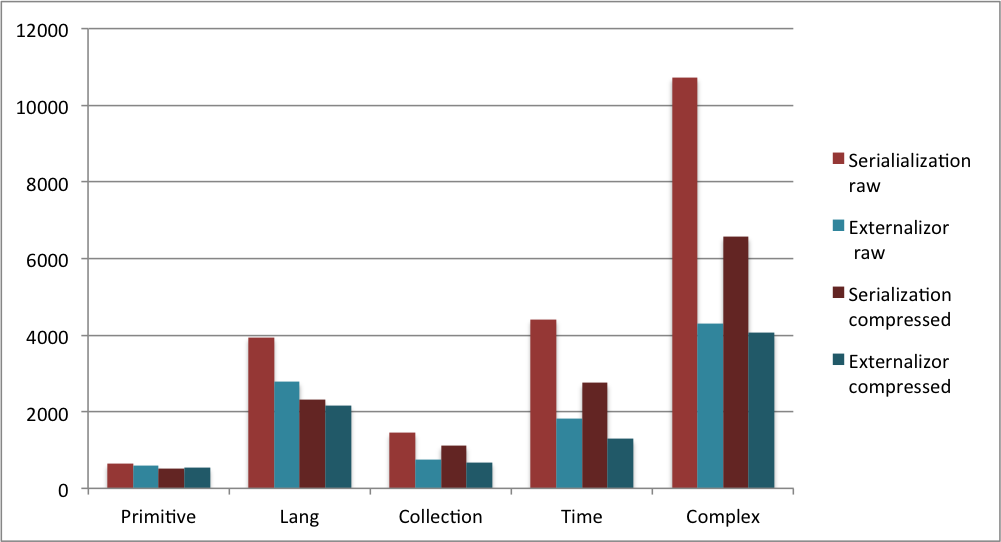
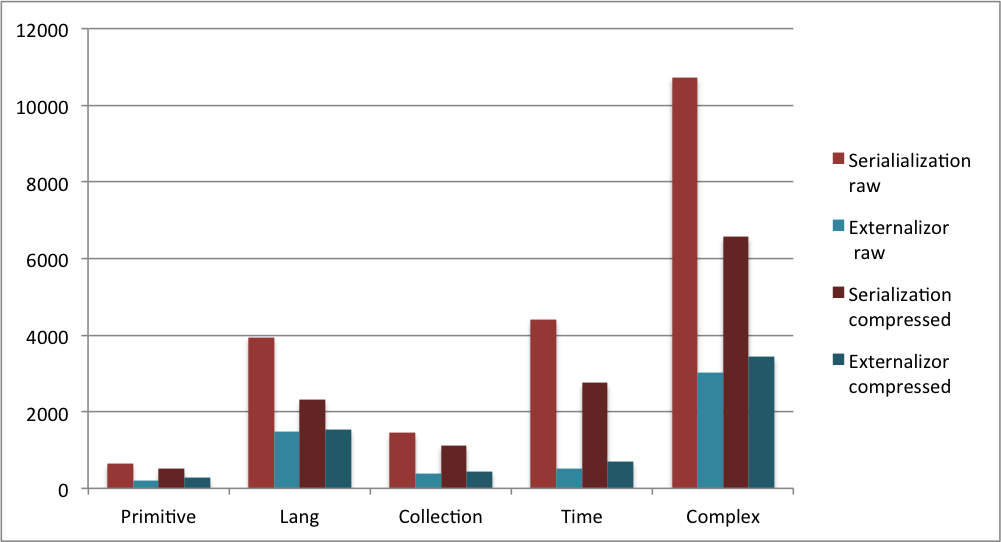
Update benchmark

diff --git a/src/test/java/com/qwazr/externalizor/BenchmarkTest.java b/src/test/java/com/qwazr/externalizor/BenchmarkTest.java
@@ -15,8 +15,10 @@
  */
 package com.qwazr.externalizor;
 
-import org.junit.Assert;
-import org.junit.Test;
+import org.apache.poi.hssf.usermodel.HSSFWorkbook;
+import org.apache.poi.ss.usermodel.*;
+import org.junit.*;
+import org.junit.runners.MethodSorters;
 import org.xerial.snappy.SnappyInputStream;
 import org.xerial.snappy.SnappyOutputStream;
 
@@ -25,9 +27,50 @@ import java.time.Duration;
 import java.util.concurrent.Callable;
 import java.util.function.Function;
 
+@FixMethodOrder(MethodSorters.NAME_ASCENDING)
 public class BenchmarkTest {
 
-	private final int TIME = 3;
+	private final int TIME = 10;
+
+	private static Workbook workbook;
+	private static Sheet sheet;
+	private static int ypos = 0;
+
+	private static void setCell(CellStyle style, Row row, int pos, String value) {
+		Cell cell = row.createCell(pos);
+		cell.setCellStyle(style);
+		cell.setCellValue(value);
+	}
+
+	@BeforeClass
+	public static void beforeClass() {
+
+		workbook = new HSSFWorkbook();
+		sheet = workbook.createSheet("Default");
+		Row row = sheet.createRow(ypos++);
+
+		CellStyle style = workbook.createCellStyle();
+		style.setWrapText(true);
+
+		setCell(style, row, 1, "Bytes\nSize");
+		setCell(style, row, 2, "Serialization\nRaw");
+		setCell(style, row, 3, "Externalizor\nRaw");
+		setCell(style, row, 4, "Serialization\nCompressed");
+		setCell(style, row, 5, "Externalizor\nCompressed");
+
+		setCell(style, row, 7, "Rate\nrw / sec");
+		setCell(style, row, 8, "Serialization\nRaw");
+		setCell(style, row, 9, "Externalizor\nRaw");
+		setCell(style, row, 10, "Serialization\nCompressed");
+		setCell(style, row, 11, "Externalizor\nCompressed");
+	}
+
+	@AfterClass
+	public static void afterCass() throws IOException {
+		try (FileOutputStream output = new FileOutputStream("target/benchmark.xls")) {
+			workbook.write(output);
+		}
+	}
 
 	public class BenchResult {
 
@@ -150,6 +193,7 @@ public class BenchmarkTest {
 		final BenchResult compress1 =
 				benchmark("Default Java - Compress", Duration.ofSeconds(TIME), callNewObject, BenchmarkTest::write,
 						BenchmarkTest::read);
+
 		final BenchResult compress2 =
 				benchmark("Externalizor - Compress", Duration.ofSeconds(TIME), callNewObject, ExternalizerTest::write,
 						bytes -> ExternalizerTest.read(bytes, clazz));
@@ -171,30 +215,44 @@ public class BenchmarkTest {
 		System.out.println(raw2);
 		System.out.println(compare(raw1, raw2));
 		System.out.println();
+
+		Row row = sheet.createRow(ypos++);
+		row.createCell(1).setCellValue(clazz.getSimpleName());
+		row.createCell(2).setCellValue(raw1.avgSize);
+		row.createCell(3).setCellValue(raw2.avgSize);
+		row.createCell(4).setCellValue(compress1.avgSize);
+		row.createCell(5).setCellValue(compress2.avgSize);
+
+		row.createCell(7).setCellValue(clazz.getSimpleName());
+		row.createCell(8).setCellValue(raw1.rate);
+		row.createCell(9).setCellValue(raw2.rate);
+		row.createCell(10).setCellValue(compress1.rate);
+		row.createCell(11).setCellValue(compress2.rate);
+
 	}
 
 	@Test
-	public void benchmarkTime() throws Exception {
-		benchmarkCompare(SimpleTime::new, SimpleTime.class);
-	}
-
-	@Test
-	public void benchmarkLang() throws Exception {
-		benchmarkCompare(SimpleLang::new, SimpleLang.class);
-	}
-
-	@Test
-	public void benchmarkPrimitive() throws Exception {
+	public void benchmark01Primitive() throws Exception {
 		benchmarkCompare(SimplePrimitive::new, SimplePrimitive.class);
 	}
 
 	@Test
-	public void benchmarkCollection() throws Exception {
+	public void benchmark02Lang() throws Exception {
+		benchmarkCompare(SimpleLang::new, SimpleLang.class);
+	}
+
+	@Test
+	public void benchmark03Collection() throws Exception {
 		benchmarkCompare(SimpleCollection::new, SimpleCollection.class);
 	}
 
 	@Test
-	public void benchmarkComplex() throws Exception {
+	public void benchmark04Time() throws Exception {
+		benchmarkCompare(SimpleTime::new, SimpleTime.class);
+	}
+
+	@Test
+	public void benchmark05Complex() throws Exception {
 		benchmarkCompare(ComplexExample::new, ComplexExample.class);
 	}
 

diff --git a/README.md b/README.md
@@ -16,80 +16,6 @@ Efficient (fast and small) Java serialization using Externalizable interface.
 
 ## Usage
 
-The class to serialize should implements
-[Externalizable](https://docs.oracle.com/javase/8/docs/api/java/io/Externalizable.html).
-
-### The simplest way
-
-The classes which are supposed to be serialized can extends AutoExternalizor.
-
-```java
-
-import com.qwazr.externalizor.AutoExternalizor;
-
-public class MyClass extends AutoExternalizor {
-
-	String aStringValue;
-	int anIntValue;
-	double[] anArrayOfDouble;
-
-	enum MyEnum {
-		on, off
-	}
-
-	MyEnum anEnum;
-	HashSet<Status> aSetOfEnum;
-
-	public MyClass() {
-	}
-
-}
-```
-
-### The more efficient way
-
-The Externalizor object which is in charge of serializing/deserializing the class is static.
-The class itself implements the Externalizable methods using the static externalizor instance.
-
-```java
-
-import java.io.Externalizable;
-import com.qwazr.externalizor.Externalizor;
-
-public class MyClass implements Externalizable {
-
-	String aStringValue;
-	int anIntValue;
-	double[] anArrayOfDouble;
-
-	enum MyEnum {
-		on, off
-	}
-
-	MyEnum anEnum;
-	HashSet<Status> aSetOfEnum;
-
-	public MyClass() {
-	}
-
-	// Here is the serialization part:
-    // Create the serialization handler for this class. 
-	private final static Externalizor<MyClass> externalizor = Externalizor.of(MyClass.class);
-
-	@Override
-	public void writeExternal(final ObjectOutput out) throws IOException {
-		externalizor.writeExternal(this, out);
-	}
-
-	@Override
-	public void readExternal(final ObjectInput in) throws IOException, ClassNotFoundException {
-		externalizor.readExternal(this, in);
-	}
-}
-```
-
-### Serialize / deserialize
-
 Use the provided static methods to serialize and/or deserialize your object(s). 
 
 ```java
@@ -132,7 +58,7 @@ Add the following dependency to your pom.xml:
 <dependency>
     <groupId>com.qwazr</groupId>
     <artifactId>externalizor</artifactId>
-    <version>1.2</version>
+    <version>1.3</version>
 </dependency>
 ```
 
